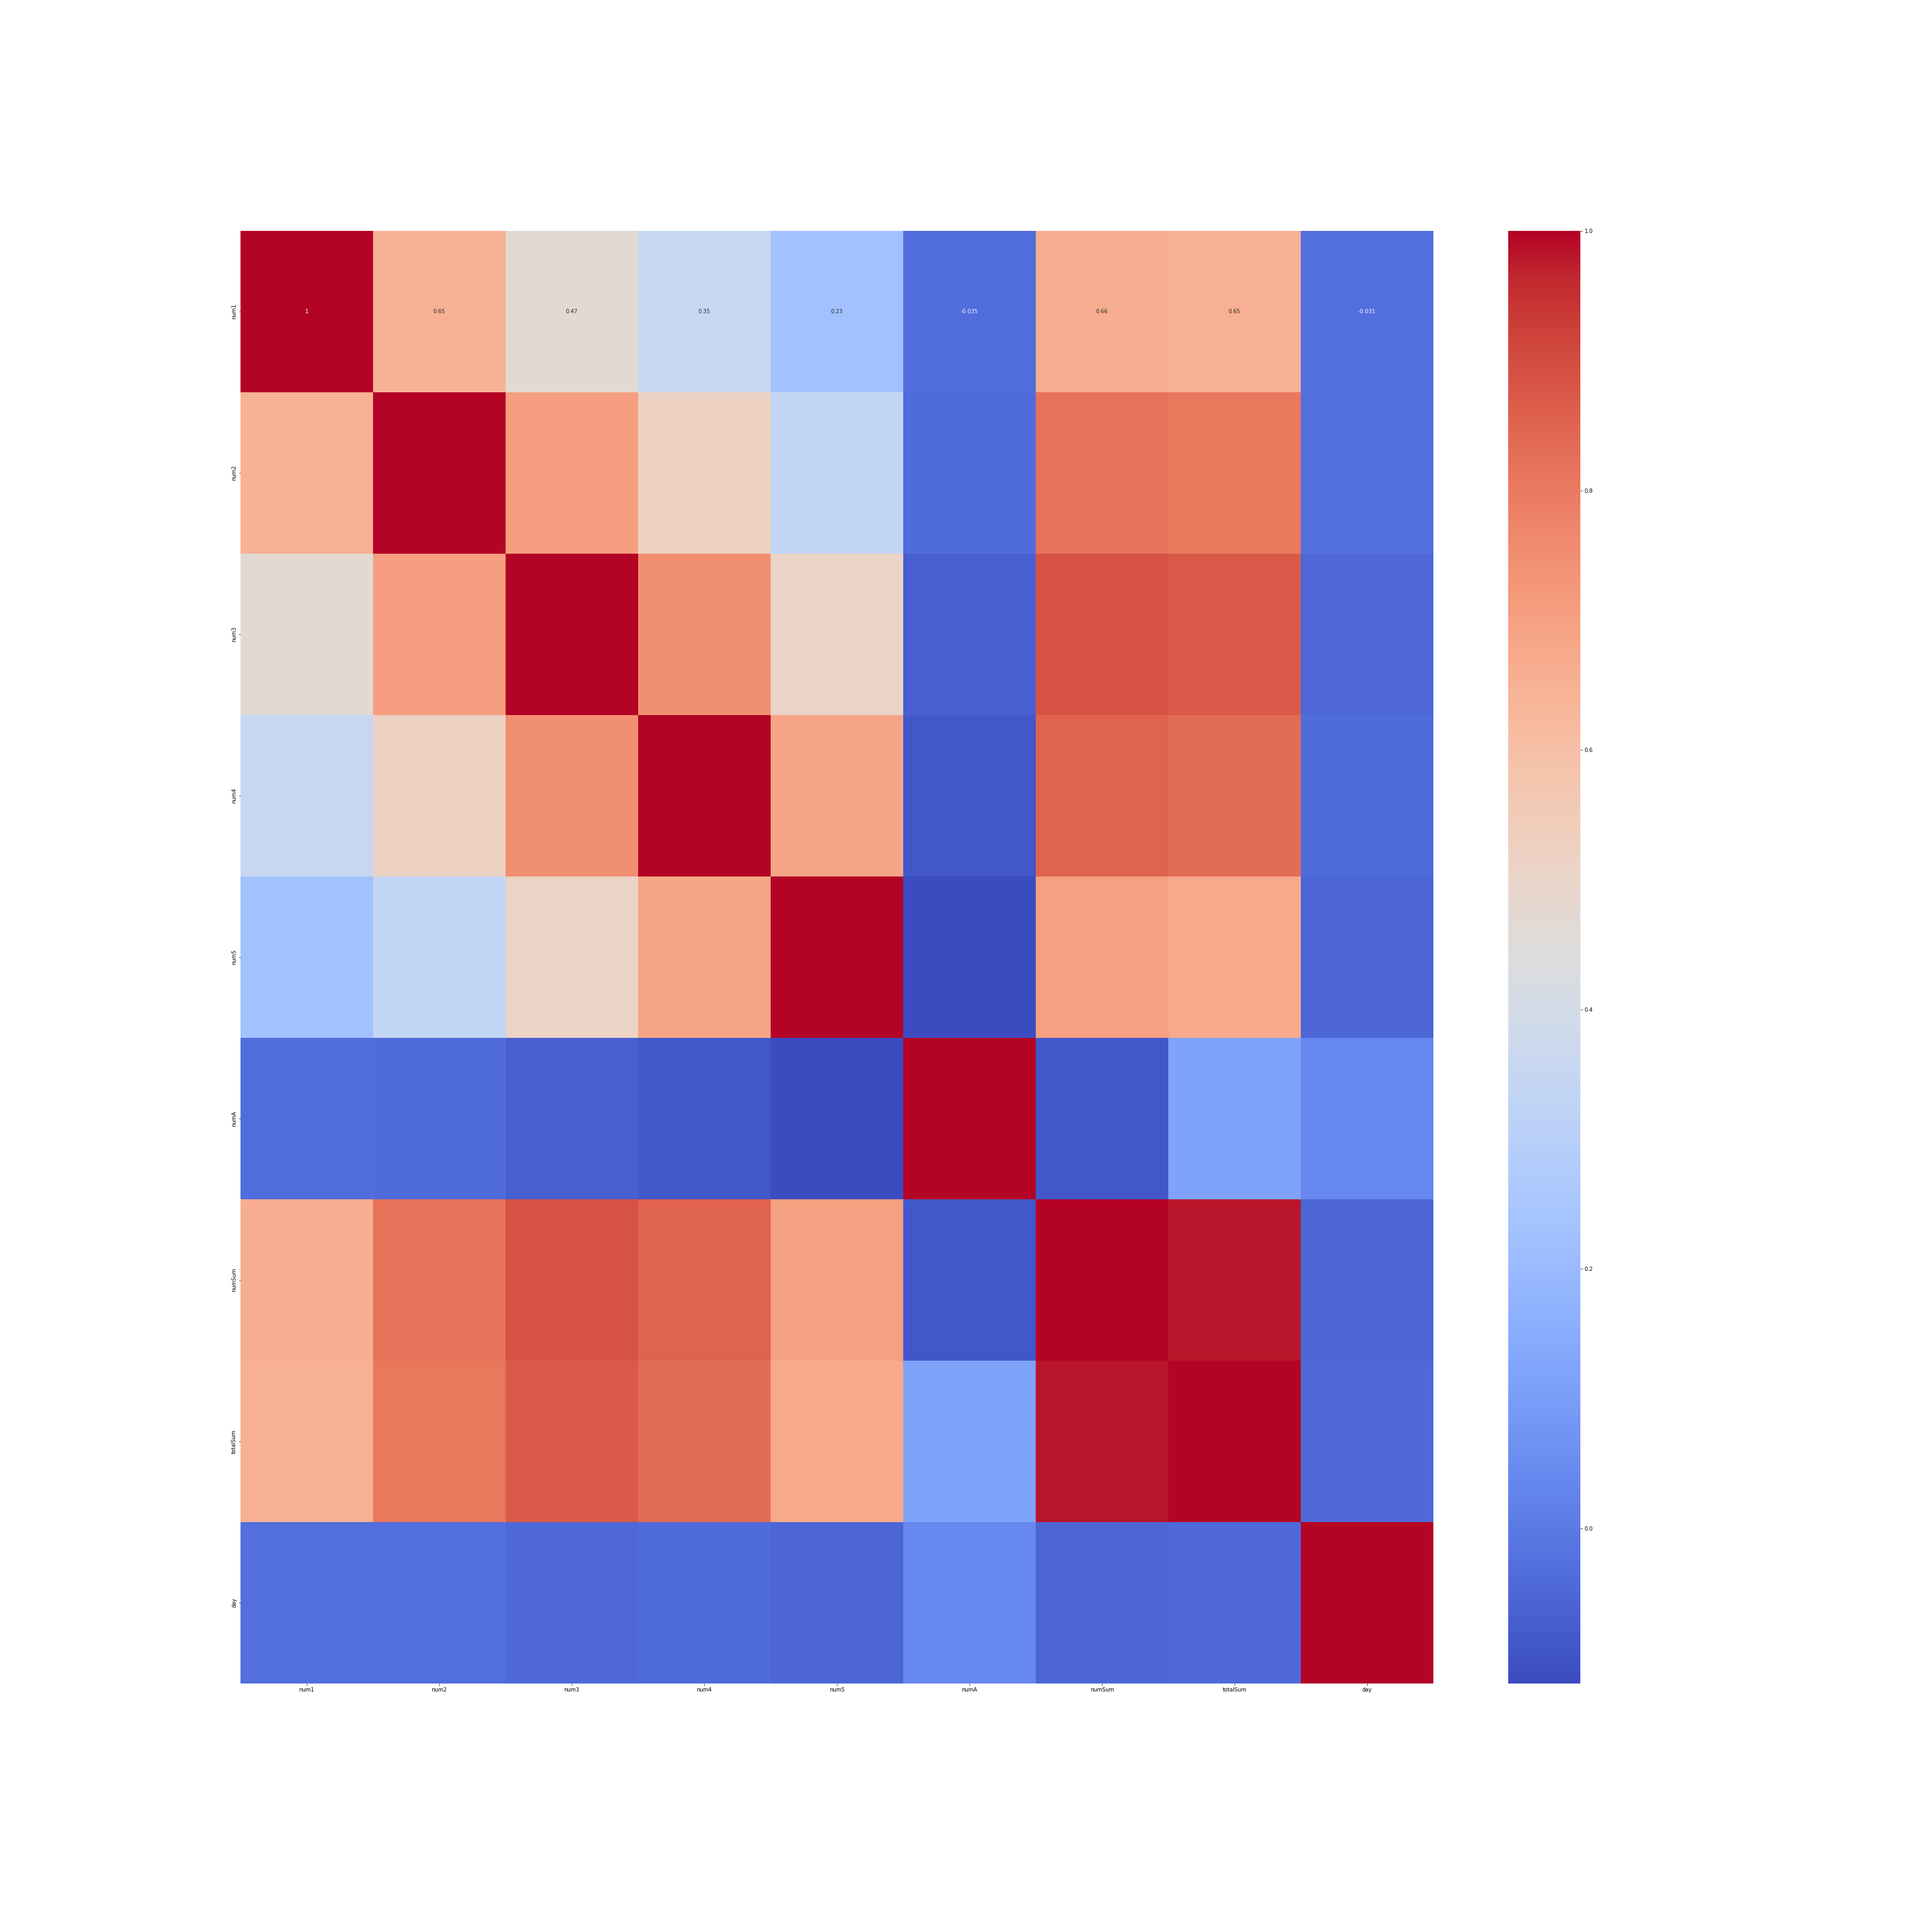
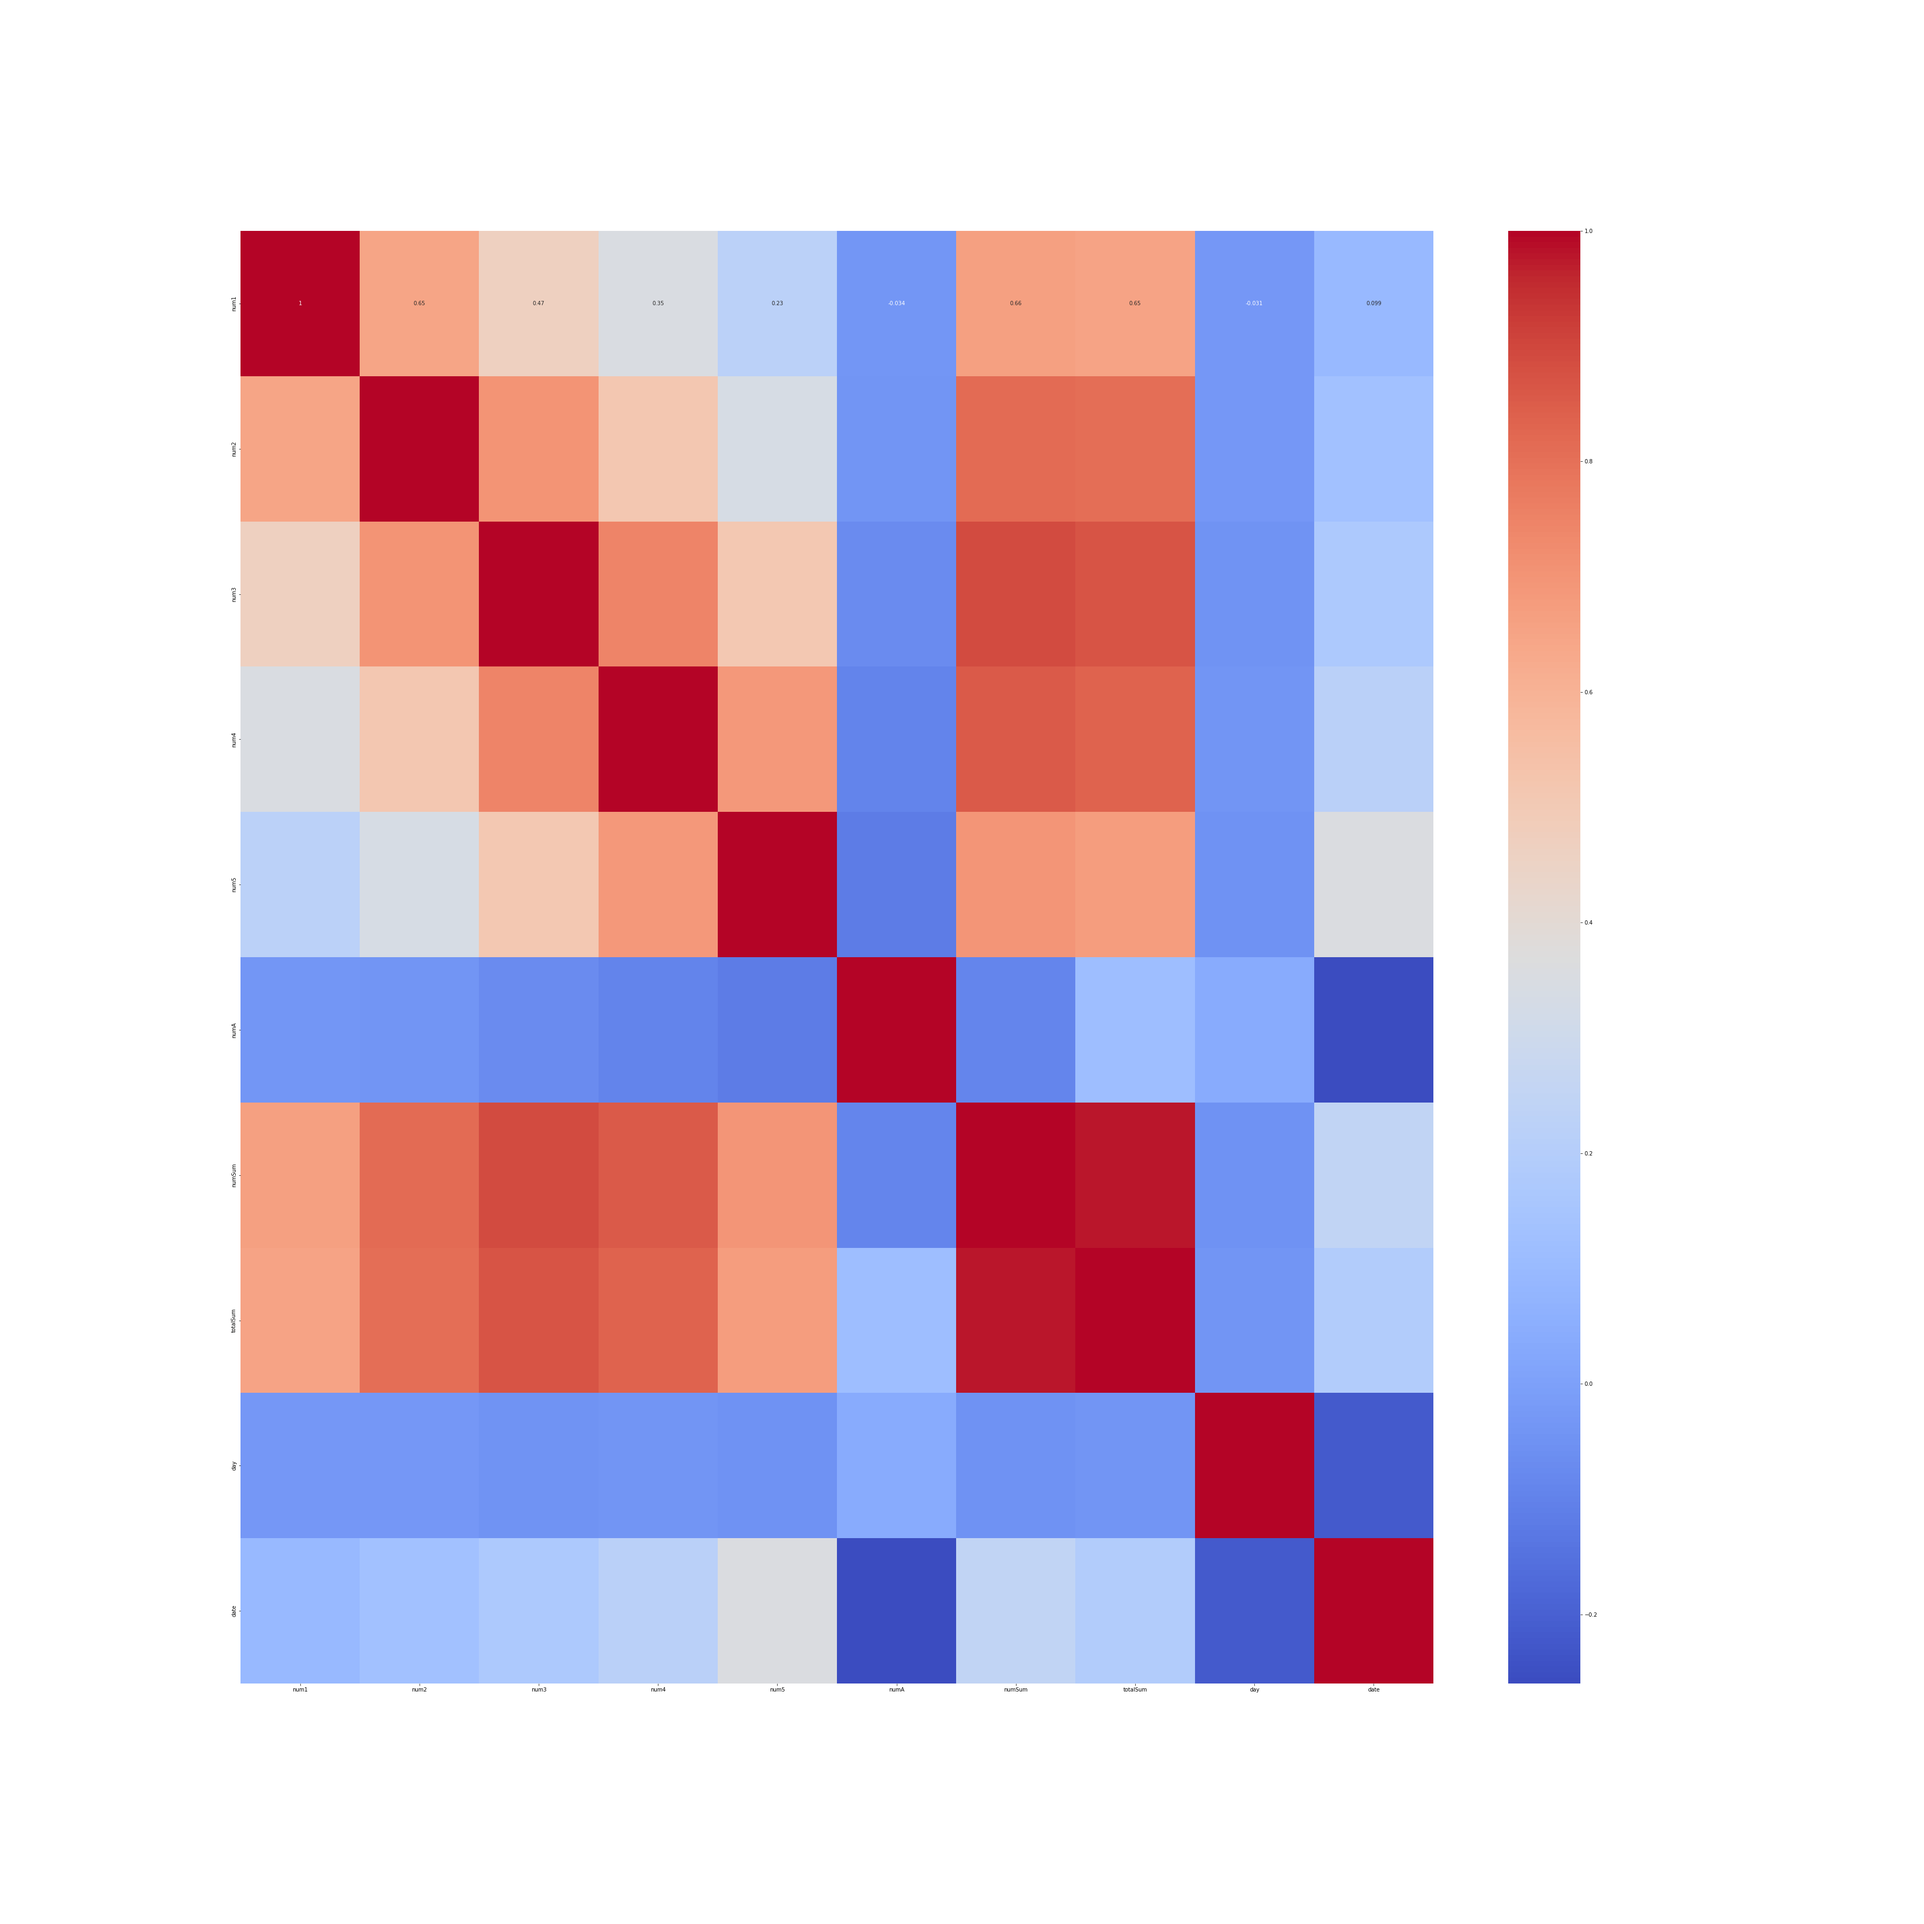
stacked

Changed region(s): [[0.1244, 0.0933, 0.7467, 0.9022]]

diff --git a/chaos/vote.py b/chaos/vote.py
@@ -6,10 +6,10 @@ from collections import Counter
 
 PREDICTIONS_DIR = 'data/predictions'
 
-def read_predictions(prefix):
-    files = [f for f in os.listdir(PREDICTIONS_DIR) if f.startswith(prefix)]
+def read_predictions(prefix, dataset_type):
+    files = [f for f in os.listdir(PREDICTIONS_DIR) if f.startswith(prefix) and dataset_type in f]
     if not files:
-        logging.error(f"No prediction files found for {prefix}.")
+        logging.error(f"No prediction files found for {prefix} with type {dataset_type}.")
         return None
     predictions = []
     for file in files:
@@ -20,12 +20,10 @@ def read_predictions(prefix):
     return combined_predictions
 
 def get_all_predictions():
-    rossler_predictions = read_predictions("rossler")
-    chua_predictions = read_predictions("chua")
-    henon_predictions = read_predictions("henon")
-    logistic_predictions = read_predictions("logistic")
-    lorenz96_predictions = read_predictions("lorenz96")
-    return rossler_predictions, chua_predictions, henon_predictions, logistic_predictions, lorenz96_predictions
+    combined = [read_predictions(model, "combined") for model in ["rossler", "chua", "henon", "logistic", "lorenz96"]]
+    pb = [read_predictions(model, "pb") for model in ["rossler", "chua", "henon", "logistic", "lorenz96"]]
+    mb = [read_predictions(model, "mb") for model in ["rossler", "chua", "henon", "logistic", "lorenz96"]]
+    return combined, pb, mb
 
 def ensemble_voting(predictions):
     combined_predictions = []
@@ -41,13 +39,30 @@ def ensemble_voting(predictions):
 
 def run_voting_ensemble():
     logging.info("Running voting ensemble on predictions...")
-    predictions = get_all_predictions()
-    combined_predictions = []
-    for prediction_set in predictions:
+    combined_predictions, pb_predictions, mb_predictions = get_all_predictions()
+
+    logging.info("Top 5 Predictions for combined dataset:")
+    combined_results = []
+    for prediction_set in combined_predictions:
         if prediction_set is not None:
-            combined_predictions.append(ensemble_voting([prediction_set]))
-    logging.info("Top 5 Predictions:")
-    for i, prediction in enumerate(combined_predictions):
+            combined_results.extend(ensemble_voting([prediction_set]))
+    for i, prediction in enumerate(combined_results[:5]):
+        logging.info(f"Prediction {i + 1}: {prediction}")
+
+    logging.info("Top 5 Predictions for PB dataset:")
+    pb_results = []
+    for prediction_set in pb_predictions:
+        if prediction_set is not None:
+            pb_results.extend(ensemble_voting([prediction_set]))
+    for i, prediction in enumerate(pb_results[:5]):
+        logging.info(f"Prediction {i + 1}: {prediction}")
+
+    logging.info("Top 5 Predictions for MB dataset:")
+    mb_results = []
+    for prediction_set in mb_predictions:
+        if prediction_set is not None:
+            mb_results.extend(ensemble_voting([prediction_set]))
+    for i, prediction in enumerate(mb_results[:5]):
         logging.info(f"Prediction {i + 1}: {prediction}")
 
 if __name__ == "__main__":

diff --git a/stacked_main.py b/stacked_main.py
@@ -1,0 +1,49 @@
+# stacked_main.py
+import logging
+from stacked.load_data import load_datasets
+from stacked.rnn_ensemble import train_rnn_ensemble, evaluate_rnn_ensemble
+from stacked.reservoir_ensemble import train_reservoir_ensemble, evaluate_reservoir_ensemble
+from stacked.deep_learning_ensemble import train_deep_learning_ensemble, evaluate_deep_learning_ensemble
+from stacked.meta_learner import train_meta_learner, evaluate_meta_learner
+from stacked.save_results import save_predictions
+
+logging.basicConfig(level=logging.INFO, format='%(asctime)s - %(levelname)s - %(message)s')
+
+def main():
+    logging.info("Loading datasets...")
+    datasets = load_datasets()
+    
+    # Process each dataset (combined, pb, mb)
+    for dataset_type, (train_data, val_data, test_data) in datasets.items():
+        logging.info(f"Processing {dataset_type} dataset...")
+
+        # Train and evaluate RNN ensemble
+        rnn_models = train_rnn_ensemble(train_data, val_data, dataset_type)
+        rnn_predictions = evaluate_rnn_ensemble(rnn_models, test_data)
+
+        # Train and evaluate Reservoir ensemble
+        reservoir_models = train_reservoir_ensemble(train_data, val_data, dataset_type)
+        reservoir_predictions = evaluate_reservoir_ensemble(reservoir_models, test_data)
+
+        # Train and evaluate Deep Learning ensemble
+        deep_learning_models = train_deep_learning_ensemble(train_data, val_data, dataset_type)
+        deep_learning_predictions = evaluate_deep_learning_ensemble(deep_learning_models, test_data)
+
+        # Train and evaluate Meta Learner (Transformer)
+        combined_predictions = {
+            'rnn': rnn_predictions,
+            'reservoir': reservoir_predictions,
+            'deep_learning': deep_learning_predictions
+        }
+        meta_learner = train_meta_learner(combined_predictions, val_data, dataset_type)
+        final_predictions = evaluate_meta_learner(meta_learner, combined_predictions)
+
+        logging.info("Saving predictions...")
+        save_predictions(final_predictions, dataset_type)
+
+    logging.info("Stacked model process complete.")
+
+if __name__ == "__main__":
+    main()
+
+

diff --git a/prep/days.py b/prep/days.py
@@ -1,6 +1,7 @@
 # days.py
 import logging
 import pandas as pd
+import os
 
 logging.basicConfig(level=logging.INFO, format='%(asctime)s - %(levelname)s - %(message)s')
 
@@ -18,4 +19,35 @@ def add_day_column(data, name):
     data['day'] = data['weekday'].map(day_mapping)
     logging.info(f"Added day column to {name} data")
 
-# No main function, this script will be called from prep_main.py
+def add_date_column(data, name):
+    """Add a date column with integer values in the format YYYYMMDD."""
+    data['date'] = pd.to_datetime(data['draw_date']).dt.strftime('%Y%m%d').astype(int)
+    logging.info(f"Added date column to {name} data")
+
+# Determine the directory of the current script
+script_dir = os.path.dirname(__file__)
+
+# Construct paths relative to the script directory
+data_combined_path = os.path.join(script_dir, '..', 'data', 'data_combined.csv')
+data_pb_path = os.path.join(script_dir, '..', 'data', 'data_pb.csv')
+data_mb_path = os.path.join(script_dir, '..', 'data', 'data_mb.csv')
+
+# Load the datasets from the constructed paths
+data_combined = pd.read_csv(data_combined_path)
+data_pb = pd.read_csv(data_pb_path)
+data_mb = pd.read_csv(data_mb_path)
+
+# Create a dictionary to process each dataset
+datasets = {
+    'combined': data_combined,
+    'pb': data_pb,
+    'mb': data_mb
+}
+
+# Apply the transformations to each dataset
+for name, dataset in datasets.items():
+    add_day_column(dataset, name)
+    add_date_column(dataset, name)
+
+# Example: Display the modified 'combined' dataset to verify changes
+print(datasets['combined'].head())

diff --git a/prep_main.py b/prep_main.py
@@ -1,10 +1,11 @@
 # prep_main.py
+# prep_main.py
 import logging
 from prep.prep_pb import PrepPB
 from prep.prep_mb import PrepMB
 from prep.stats import calculate_stats
 from prep.sums import add_sums
-from prep.days import add_day_column
+from prep.days import add_day_column, add_date_column  # Import add_date_column
 from prep.export import export_data
 
 logging.basicConfig(level=logging.INFO, format='%(asctime)s - %(levelname)s - %(message)s')
@@ -19,7 +20,8 @@ def main():
         calculate_stats(pb_data, 'pb_data')
         add_sums(pb_data, 'pb_data')
         add_day_column(pb_data, 'pb_data')
-        logging.info(f"Powerball data with sums and days: {pb_data.head()}")
+        add_date_column(pb_data, 'pb_data')  # Add the date column
+        logging.info(f"Powerball data with sums, days, and dates: {pb_data.head()}")
     else:
         logging.error("Powerball data is None")
 
@@ -32,7 +34,8 @@ def main():
         calculate_stats(mb_data, 'mb_data')
         add_sums(mb_data, 'mb_data')
         add_day_column(mb_data, 'mb_data')
-        logging.info(f"Mega Millions data with sums and days: {mb_data.head()}")
+        add_date_column(mb_data, 'mb_data')  # Add the date column
+        logging.info(f"Mega Millions data with sums, days, and dates: {mb_data.head()}")
     else:
         logging.error("Mega Millions data is None")
     

diff --git a/stacked/deep_learning_ensemble.py b/stacked/deep_learning_ensemble.py
@@ -1,0 +1,7 @@
+# deep_learning_ensemble.py
+"""
+Created on Fri Jun  7 18:09:17 2024
+
+@author: AVMal
+"""
+

diff --git a/stacked/reservoir_ensemble.py b/stacked/reservoir_ensemble.py
@@ -1,0 +1,7 @@
+# reservoir_ensemble.py
+"""
+Created on Fri Jun  7 18:09:08 2024
+
+@author: AVMal
+"""
+

diff --git a/stacked/meta_learner.py b/stacked/meta_learner.py
@@ -1,0 +1,7 @@
+# meta_learner.py
+"""
+Created on Fri Jun  7 18:09:32 2024
+
+@author: AVMal
+"""
+

diff --git a/stacked/rnn_ensemble.py b/stacked/rnn_ensemble.py
@@ -1,0 +1,7 @@
+# rnn_ensemble.py
+"""
+Created on Fri Jun  7 18:08:54 2024
+
+@author: AVMal
+"""
+
